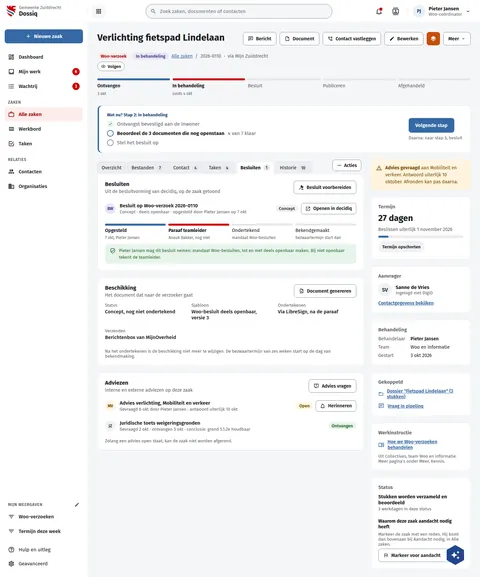
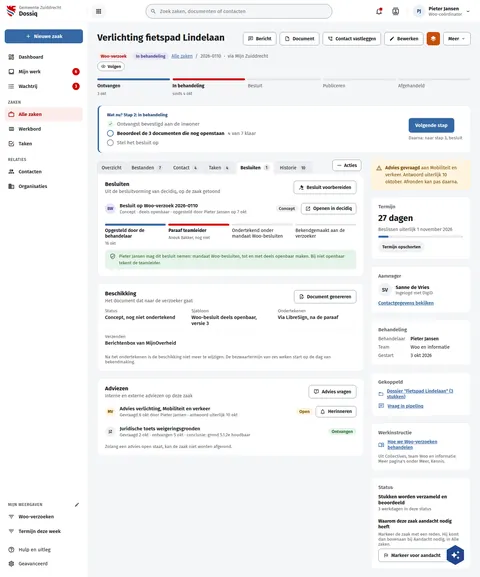
fix(screens): DqZaakBesluiten's decision route reads the stages decidiq has
The route's stage names are example content, so they follow the data
(data is the truth): 'Opgesteld door de behandelaar' (16 okt), 'Paraaf
teamleider' (Anouk Bakker, nog niet), 'Ondertekend onder mandaat
Woo-besluiten' and 'Bekendgemaakt aan de verzoeker', without the lines
the stages do not carry. Live wraps the longer names to two lines, 66px
a step; the board drew one-word names at 49.

Assisted-by: ClaudeCode:claude-opus-5-5

Changed region(s): [[0.2188, 0.3744, 0.7188, 0.7799], [0.625, 0.6551, 0.75, 0.7799], [0.5625, 0.4991, 0.75, 0.5615]]

diff --git a/preview/screens/boards/DqZaakBesluiten.html b/preview/screens/boards/DqZaakBesluiten.html
@@ -227,7 +227,7 @@ a{color:var(--sc-primary, #3669a5)}a:hover{color:var(--sc-primary-deep, #234a78)
               </div>
               <button type="button" aria-haspopup="menu" style="flex: none; align-self: flex-start; margin: 0 8px 8px 0; display: inline-flex; align-items: center; gap: 6px; min-height: 34px; padding: 0 12px; border: 1px solid var(--sc-work-field, #828a95); border-radius: 8px; background: #ffffff; font: 600 14px var(--sc-font, 'Fira Sans'), sans-serif; color: var(--sc-work-ink, #1b1c1d)"><svg width="16" height="16" viewbox="0 0 24 24" fill="currentColor"><path d="M16,12A2,2 0 0,1 18,10A2,2 0 0,1 20,12A2,2 0 0,1 18,14A2,2 0 0,1 16,12M10,12A2,2 0 0,1 12,10A2,2 0 0,1 14,12A2,2 0 0,1 12,14A2,2 0 0,1 10,12M4,12A2,2 0 0,1 6,10A2,2 0 0,1 8,12A2,2 0 0,1 6,14A2,2 0 0,1 4,12Z"></path></svg>Acties</button>
             </div>
-            <section aria-label="Besluiten" style="background: #ffffff; border: 1px solid var(--sc-work-line, #e4e6ea); border-radius: 0 12px 12px 12px; padding: 20px 22px; display: flex; flex-direction: column; gap: 12px"><div style="display: flex; flex-wrap: wrap; justify-content: space-between; align-items: flex-start; gap: 10px 16px"><div style="flex: 1 1 260px; min-width: 0; display: flex; flex-direction: column; gap: 3px"><h2 style="margin: 0; font-size: 17px; font-weight: 700">Besluiten</h2><span style="font-size: 14px; color: var(--sc-work-muted, #5e6168)">Uit de besluitvorming van decidiq, op de zaak getoond</span></div><div style="flex: none; display: flex; flex-wrap: wrap; gap: 8px"><button type="button" style="display: inline-flex; align-items: center; gap: 8px; height: 40px; padding: 0 14px; border-radius: 8px; font: 600 14px var(--sc-font, 'Fira Sans'), sans-serif; white-space: nowrap; border: 1px solid var(--sc-work-field, #828a95); background: #ffffff; color: var(--sc-work-ink, #1b1c1d)"><svg width="16" height="16" viewbox="0 0 24 24" fill="currentColor" aria-hidden="true"><path d="M2.3,20.28L11.9,10.68L10.5,9.26L9.78,9.97C9.39,10.36 8.76,10.36 8.37,9.97L7.66,9.26C7.27,8.87 7.27,8.24 7.66,7.85L13.32,2.19C13.71,1.8 14.34,1.8 14.73,2.19L15.44,2.9C15.83,3.29 15.83,3.92 15.44,4.31L14.73,5L16.15,6.43C16.54,6.04 17.17,6.04 17.56,6.43C17.95,6.82 17.95,7.46 17.56,7.85L18.97,9.26L19.68,8.55C20.07,8.16 20.71,8.16 21.1,8.55L21.8,9.26C22.19,9.65 22.19,10.29 21.8,10.68L16.15,16.33C15.76,16.72 15.12,16.72 14.73,16.33L14.03,15.63C13.63,15.24 13.63,14.6 14.03,14.21L14.73,13.5L13.32,12.09L3.71,21.7C3.32,22.09 2.69,22.09 2.3,21.7C1.91,21.31 1.91,20.67 2.3,20.28M20,19A2,2 0 0,1 22,21V22H12V21A2,2 0 0,1 14,19H20Z"></path></svg>Besluit voorbereiden</button></div></div><ul style="margin: 0; padding: 0; list-style: none; display: flex; flex-direction: column"><li style="display: flex; flex-wrap: wrap; gap: 8px 16px; align-items: center; padding: 12px 0; border-top: 1px solid var(--sc-work-soft, #eef0f3)"><span style="flex: 1 1 260px; min-width: 0; display: flex; gap: 12px; align-items: center"><span aria-hidden="true" style="width: 32px; height: 32px; flex: none; border-radius: 16px; background: #e8e6f6; color: #4a3f8f; display: inline-flex; align-items: center; justify-content: center; font-size: 12px; font-weight: 700">BW</span><span style="display: flex; flex-direction: column; gap: 2px; min-width: 0"><strong style="font-size: 15px; font-weight: 600">Besluit op Woo-verzoek 2026-0110</strong><span style="font-size: 13px; color: var(--sc-work-muted, #5e6168)">Concept · deels openbaar · opgesteld door Pieter Jansen op 7 okt</span></span></span><span style="flex: none; display: flex; flex-wrap: wrap; gap: 8px; align-items: center"><span style="display: inline-block; padding: 3px 10px; border-radius: 12px; background: var(--sc-work-chip, #f0f1f3); color: var(--sc-work-text, #3d4047); font-size: 13px; font-weight: 600; white-space: nowrap">Concept</span><button type="button" style="display: inline-flex; align-items: center; gap: 8px; height: 34px; padding: 0 12px; border-radius: 8px; font: 600 14px var(--sc-font, 'Fira Sans'), sans-serif; white-space: nowrap; border: 1px solid var(--sc-work-field, #828a95); background: #ffffff; color: var(--sc-work-ink, #1b1c1d)"><svg width="16" height="16" viewbox="0 0 24 24" fill="currentColor" aria-hidden="true"><path d="M14,3V5H17.59L7.76,14.83L9.17,16.24L19,6.41V10H21V3M19,19H5V5H12V3H5C3.89,3 3,3.9 3,5V19A2,2 0 0,0 5,21H19A2,2 0 0,0 21,19V12H19V19Z"></path></svg>Openen in decidiq</button></span></li></ul><ol aria-label="Route van het besluit" style="margin: 4px 0 0; padding: 0; list-style: none; display: grid; grid-template-columns: repeat(auto-fit, minmax(150px, 1fr)); gap: 8px"><li style="display: flex; flex-direction: column; gap: 6px"><span style="height: 6px; border-radius: 3px; background: var(--sc-primary, #3669a5)"></span><span style="font-size: 14px; font-weight: 600">Opgesteld</span><span style="font-size: 12px; color: var(--sc-work-muted, #5e6168)">7 okt, Pieter Jansen</span></li><li style="display: flex; flex-direction: column; gap: 6px"><span style="height: 6px; border-radius: 3px; background: var(--sc-accent, #cc0000)"></span><span style="font-size: 14px; font-weight: 700">Paraaf teamleider</span><span style="font-size: 12px; color: var(--sc-work-muted, #5e6168)">Anouk Bakker, nog niet</span></li><li style="display: flex; flex-direction: column; gap: 6px"><span style="height: 6px; border-radius: 3px; background: var(--sc-work-line, #e4e6ea)"></span><span style="font-size: 14px; font-weight: 400">Ondertekend</span><span style="font-size: 12px; color: var(--sc-work-muted, #5e6168)">mandaat Woo-besluiten</span></li><li style="display: flex; flex-direction: column; gap: 6px"><span style="height: 6px; border-radius: 3px; background: var(--sc-work-line, #e4e6ea)"></span><span style="font-size: 14px; font-weight: 400">Bekendgemaakt</span><span style="font-size: 12px; color: var(--sc-work-muted, #5e6168)">bezwaartermijn start dan</span></li></ol><div style="display: flex; gap: 10px; align-items: flex-start; padding: 10px 14px; border-radius: 10px; background: #e7f3ea; color: #1e6b2a; font-size: 13px; line-height: 1.5"><svg width="18" height="18" viewbox="0 0 24 24" fill="currentColor" aria-hidden="true" style="flex: none; margin-top: 1px"><path d="M21,11C21,16.55 17.16,21.74 12,23C6.84,21.74 3,16.55 3,11V5L12,1L21,5V11M12,21C15.75,20 19,15.54 19,11.22V6.3L12,3.18L5,6.3V11.22C5,15.54 8.25,20 12,21M10,17L6,13L7.41,11.59L10,14.17L16.59,7.58L18,9"></path></svg><span>Pieter Jansen mag dit besluit nemen: mandaat Woo-besluiten, tot en met deels openbaar maken. Bij niet openbaar tekent de teamleider.</span></div></section>
+            <section aria-label="Besluiten" style="background: #ffffff; border: 1px solid var(--sc-work-line, #e4e6ea); border-radius: 0 12px 12px 12px; padding: 20px 22px; display: flex; flex-direction: column; gap: 12px"><div style="display: flex; flex-wrap: wrap; justify-content: space-between; align-items: flex-start; gap: 10px 16px"><div style="flex: 1 1 260px; min-width: 0; display: flex; flex-direction: column; gap: 3px"><h2 style="margin: 0; font-size: 17px; font-weight: 700">Besluiten</h2><span style="font-size: 14px; color: var(--sc-work-muted, #5e6168)">Uit de besluitvorming van decidiq, op de zaak getoond</span></div><div style="flex: none; display: flex; flex-wrap: wrap; gap: 8px"><button type="button" style="display: inline-flex; align-items: center; gap: 8px; height: 40px; padding: 0 14px; border-radius: 8px; font: 600 14px var(--sc-font, 'Fira Sans'), sans-serif; white-space: nowrap; border: 1px solid var(--sc-work-field, #828a95); background: #ffffff; color: var(--sc-work-ink, #1b1c1d)"><svg width="16" height="16" viewbox="0 0 24 24" fill="currentColor" aria-hidden="true"><path d="M2.3,20.28L11.9,10.68L10.5,9.26L9.78,9.97C9.39,10.36 8.76,10.36 8.37,9.97L7.66,9.26C7.27,8.87 7.27,8.24 7.66,7.85L13.32,2.19C13.71,1.8 14.34,1.8 14.73,2.19L15.44,2.9C15.83,3.29 15.83,3.92 15.44,4.31L14.73,5L16.15,6.43C16.54,6.04 17.17,6.04 17.56,6.43C17.95,6.82 17.95,7.46 17.56,7.85L18.97,9.26L19.68,8.55C20.07,8.16 20.71,8.16 21.1,8.55L21.8,9.26C22.19,9.65 22.19,10.29 21.8,10.68L16.15,16.33C15.76,16.72 15.12,16.72 14.73,16.33L14.03,15.63C13.63,15.24 13.63,14.6 14.03,14.21L14.73,13.5L13.32,12.09L3.71,21.7C3.32,22.09 2.69,22.09 2.3,21.7C1.91,21.31 1.91,20.67 2.3,20.28M20,19A2,2 0 0,1 22,21V22H12V21A2,2 0 0,1 14,19H20Z"></path></svg>Besluit voorbereiden</button></div></div><ul style="margin: 0; padding: 0; list-style: none; display: flex; flex-direction: column"><li style="display: flex; flex-wrap: wrap; gap: 8px 16px; align-items: center; padding: 12px 0; border-top: 1px solid var(--sc-work-soft, #eef0f3)"><span style="flex: 1 1 260px; min-width: 0; display: flex; gap: 12px; align-items: center"><span aria-hidden="true" style="width: 32px; height: 32px; flex: none; border-radius: 16px; background: #e8e6f6; color: #4a3f8f; display: inline-flex; align-items: center; justify-content: center; font-size: 12px; font-weight: 700">BW</span><span style="display: flex; flex-direction: column; gap: 2px; min-width: 0"><strong style="font-size: 15px; font-weight: 600">Besluit op Woo-verzoek 2026-0110</strong><span style="font-size: 13px; color: var(--sc-work-muted, #5e6168)">Concept · deels openbaar · opgesteld door Pieter Jansen op 7 okt</span></span></span><span style="flex: none; display: flex; flex-wrap: wrap; gap: 8px; align-items: center"><span style="display: inline-block; padding: 3px 10px; border-radius: 12px; background: var(--sc-work-chip, #f0f1f3); color: var(--sc-work-text, #3d4047); font-size: 13px; font-weight: 600; white-space: nowrap">Concept</span><button type="button" style="display: inline-flex; align-items: center; gap: 8px; height: 34px; padding: 0 12px; border-radius: 8px; font: 600 14px var(--sc-font, 'Fira Sans'), sans-serif; white-space: nowrap; border: 1px solid var(--sc-work-field, #828a95); background: #ffffff; color: var(--sc-work-ink, #1b1c1d)"><svg width="16" height="16" viewbox="0 0 24 24" fill="currentColor" aria-hidden="true"><path d="M14,3V5H17.59L7.76,14.83L9.17,16.24L19,6.41V10H21V3M19,19H5V5H12V3H5C3.89,3 3,3.9 3,5V19A2,2 0 0,0 5,21H19A2,2 0 0,0 21,19V12H19V19Z"></path></svg>Openen in decidiq</button></span></li></ul><ol aria-label="Route van het besluit" style="margin: 4px 0 0; padding: 0; list-style: none; display: grid; grid-template-columns: repeat(auto-fit, minmax(150px, 1fr)); gap: 8px"><li style="display: flex; flex-direction: column; gap: 6px"><span style="height: 6px; border-radius: 3px; background: var(--sc-primary, #3669a5)"></span><span style="font-size: 14px; font-weight: 600">Opgesteld door de behandelaar</span><span style="font-size: 12px; color: var(--sc-work-muted, #5e6168)">16 okt</span></li><li style="display: flex; flex-direction: column; gap: 6px"><span style="height: 6px; border-radius: 3px; background: var(--sc-accent, #cc0000)"></span><span style="font-size: 14px; font-weight: 700">Paraaf teamleider</span><span style="font-size: 12px; color: var(--sc-work-muted, #5e6168)">Anouk Bakker, nog niet</span></li><li style="display: flex; flex-direction: column; gap: 6px"><span style="height: 6px; border-radius: 3px; background: var(--sc-work-line, #e4e6ea)"></span><span style="font-size: 14px; font-weight: 400">Ondertekend onder mandaat Woo-besluiten</span></li><li style="display: flex; flex-direction: column; gap: 6px"><span style="height: 6px; border-radius: 3px; background: var(--sc-work-line, #e4e6ea)"></span><span style="font-size: 14px; font-weight: 400">Bekendgemaakt aan de verzoeker</span></li></ol><div style="display: flex; gap: 10px; align-items: flex-start; padding: 10px 14px; border-radius: 10px; background: #e7f3ea; color: #1e6b2a; font-size: 13px; line-height: 1.5"><svg width="18" height="18" viewbox="0 0 24 24" fill="currentColor" aria-hidden="true" style="flex: none; margin-top: 1px"><path d="M21,11C21,16.55 17.16,21.74 12,23C6.84,21.74 3,16.55 3,11V5L12,1L21,5V11M12,21C15.75,20 19,15.54 19,11.22V6.3L12,3.18L5,6.3V11.22C5,15.54 8.25,20 12,21M10,17L6,13L7.41,11.59L10,14.17L16.59,7.58L18,9"></path></svg><span>Pieter Jansen mag dit besluit nemen: mandaat Woo-besluiten, tot en met deels openbaar maken. Bij niet openbaar tekent de teamleider.</span></div></section>
             <section style="background: #ffffff; border: 1px solid var(--sc-work-line, #e4e6ea); border-radius: 12px; padding: 20px 22px; display: flex; flex-direction: column; gap: 14px"><div style="display: flex; flex-wrap: wrap; justify-content: space-between; align-items: flex-start; gap: 10px 16px"><div style="flex: 1 1 260px; min-width: 0; display: flex; flex-direction: column; gap: 3px"><h2 style="margin: 0; font-size: 17px; font-weight: 700">Beschikking</h2><span style="font-size: 14px; color: var(--sc-work-muted, #5e6168)">Het document dat naar de verzoeker gaat</span></div><div style="flex: none; display: flex; flex-wrap: wrap; gap: 8px"><button type="button" style="display: inline-flex; align-items: center; gap: 8px; height: 40px; padding: 0 14px; border-radius: 8px; font: 600 14px var(--sc-font, 'Fira Sans'), sans-serif; white-space: nowrap; border: 1px solid var(--sc-work-field, #828a95); background: #ffffff; color: var(--sc-work-ink, #1b1c1d)"><svg width="16" height="16" viewbox="0 0 24 24" fill="currentColor" aria-hidden="true"><path d="M8,12H16V14H8V12M10,20H6V4H13V9H18V12.1L20,10.1V8L14,2H6A2,2 0 0,0 4,4V20A2,2 0 0,0 6,22H10V20M8,18H12.1L13,17.1V16H8V18M20.2,13C20.3,13 20.5,13.1 20.6,13.2L21.9,14.5C22.1,14.7 22.1,15.1 21.9,15.3L20.9,16.3L18.8,14.2L19.8,13.2C19.9,13.1 20,13 20.2,13M20.2,16.9L14.1,23H12V20.9L18.1,14.8L20.2,16.9Z"></path></svg>Document genereren</button></div></div><dl style="margin: 0; display: grid; grid-template-columns: repeat(auto-fit, minmax(200px, 1fr)); gap: 12px 24px; font-size: 15px"><div style="display: flex; flex-direction: column; gap: 3px; padding-bottom: 10px; border-bottom: 1px solid var(--sc-work-soft, #eef0f3)"><dt style="font-size: 13px; color: var(--sc-work-muted, #5e6168)">Status</dt><dd style="margin: 0; font-weight: 500">Concept, nog niet ondertekend</dd></div><div style="display: flex; flex-direction: column; gap: 3px; padding-bottom: 10px; border-bottom: 1px solid var(--sc-work-soft, #eef0f3)"><dt style="font-size: 13px; color: var(--sc-work-muted, #5e6168)">Sjabloon</dt><dd style="margin: 0; font-weight: 500">Woo-besluit deels openbaar, versie 3</dd></div><div style="display: flex; flex-direction: column; gap: 3px; padding-bottom: 10px; border-bottom: 1px solid var(--sc-work-soft, #eef0f3)"><dt style="font-size: 13px; color: var(--sc-work-muted, #5e6168)">Ondertekenen</dt><dd style="margin: 0; font-weight: 500">Via LibreSign, na de paraaf</dd></div><div style="display: flex; flex-direction: column; gap: 3px; padding-bottom: 10px; border-bottom: 1px solid var(--sc-work-soft, #eef0f3)"><dt style="font-size: 13px; color: var(--sc-work-muted, #5e6168)">Verzenden</dt><dd style="margin: 0; font-weight: 500">Berichtenbox van MijnOverheid</dd></div></dl><span style="font-size: 13px; color: var(--sc-work-muted, #5e6168)">Na het ondertekenen is de beschikking niet meer te wijzigen. De bezwaartermijn van zes weken start op de dag van bekendmaking.</span></section>
             <section style="background: #ffffff; border: 1px solid var(--sc-work-line, #e4e6ea); border-radius: 12px; padding: 20px 22px; display: flex; flex-direction: column; gap: 8px"><div style="display: flex; flex-wrap: wrap; justify-content: space-between; align-items: flex-start; gap: 10px 16px"><div style="flex: 1 1 260px; min-width: 0; display: flex; flex-direction: column; gap: 3px"><h2 style="margin: 0; font-size: 17px; font-weight: 700">Adviezen</h2><span style="font-size: 14px; color: var(--sc-work-muted, #5e6168)">Interne en externe adviezen op deze zaak</span></div><div style="flex: none; display: flex; flex-wrap: wrap; gap: 8px"><button type="button" style="display: inline-flex; align-items: center; gap: 8px; height: 40px; padding: 0 14px; border-radius: 8px; font: 600 14px var(--sc-font, 'Fira Sans'), sans-serif; white-space: nowrap; border: 1px solid var(--sc-work-field, #828a95); background: #ffffff; color: var(--sc-work-ink, #1b1c1d)"><svg width="16" height="16" viewbox="0 0 24 24" fill="currentColor" aria-hidden="true"><path d="M4,2A2,2 0 0,0 2,4V16A2,2 0 0,0 4,18H8V21A1,1 0 0,0 9,22H9.5V22C9.75,22 10,21.9 10.2,21.71L13.9,18H20A2,2 0 0,0 22,16V4C22,2.89 21.1,2 20,2H4M4,4H20V16H13.08L10,19.08V16H4V4M12.19,5.5C11.3,5.5 10.59,5.68 10.05,6.04C9.5,6.4 9.22,7 9.27,7.69C0.21,7.69 6.57,7.69 11.24,7.69C11.24,7.41 11.34,7.2 11.5,7.06C11.7,6.92 11.92,6.85 12.19,6.85C12.5,6.85 12.77,6.93 12.95,7.11C13.13,7.28 13.22,7.5 13.22,7.8C13.22,8.08 13.14,8.33 13,8.54C12.83,8.76 12.62,8.94 12.36,9.08C11.84,9.4 11.5,9.68 11.29,9.92C11.1,10.16 11,10.5 11,11H13C13,10.72 13.05,10.5 13.14,10.32C13.23,10.15 13.4,10 13.66,9.85C14.12,9.64 14.5,9.36 14.79,9C15.08,8.63 15.23,8.24 15.23,7.8C15.23,7.1 14.96,6.54 14.42,6.12C13.88,5.71 13.13,5.5 12.19,5.5M11,12V14H13V12H11Z"></path></svg>Advies vragen</button></div></div><ul style="margin: 0; padding: 0; list-style: none; display: flex; flex-direction: column"><li style="display: flex; flex-wrap: wrap; gap: 8px 16px; align-items: center; padding: 12px 0; border-top: 1px solid var(--sc-work-soft, #eef0f3)"><span style="flex: 1 1 260px; min-width: 0; display: flex; gap: 12px; align-items: center"><span aria-hidden="true" style="width: 32px; height: 32px; flex: none; border-radius: 16px; background: #fff4de; color: #7a4f00; display: inline-flex; align-items: center; justify-content: center; font-size: 12px; font-weight: 700">MV</span><span style="display: flex; flex-direction: column; gap: 2px; min-width: 0"><strong style="font-size: 15px; font-weight: 600">Advies verlichting, Mobiliteit en verkeer</strong><span style="font-size: 13px; color: var(--sc-work-muted, #5e6168)">Gevraagd 6 okt door Pieter Jansen · antwoord uiterlijk 10 okt</span></span></span><span style="flex: none; display: flex; flex-wrap: wrap; gap: 8px; align-items: center"><span style="display: inline-block; padding: 3px 10px; border-radius: 12px; background: #fff4de; color: #7a4f00; font-size: 13px; font-weight: 600; white-space: nowrap">Open</span><button type="button" style="display: inline-flex; align-items: center; gap: 8px; height: 34px; padding: 0 12px; border-radius: 8px; font: 600 14px var(--sc-font, 'Fira Sans'), sans-serif; white-space: nowrap; border: 1px solid var(--sc-work-field, #828a95); background: #ffffff; color: var(--sc-work-ink, #1b1c1d)"><svg width="16" height="16" viewbox="0 0 24 24" fill="currentColor" aria-hidden="true"><path d="M10 21H14C14 22.1 13.1 23 12 23S10 22.1 10 21M21 19V20H3V19L5 17V11C5 7.9 7 5.2 10 4.3V4C10 2.9 10.9 2 12 2S14 2.9 14 4V4.3C17 5.2 19 7.9 19 11V17L21 19M17 11C17 8.2 14.8 6 12 6S7 8.2 7 11V18H17V11Z"></path></svg>Herinneren</button></span></li><li style="display: flex; flex-wrap: wrap; gap: 8px 16px; align-items: center; padding: 12px 0; border-top: 1px solid var(--sc-work-soft, #eef0f3)"><span style="flex: 1 1 260px; min-width: 0; display: flex; gap: 12px; align-items: center"><span aria-hidden="true" style="width: 32px; height: 32px; flex: none; border-radius: 16px; background: var(--sc-work-chip, #f0f1f3); color: var(--sc-work-text, #3d4047); display: inline-flex; align-items: center; justify-content: center; font-size: 12px; font-weight: 700">JZ</span><span style="display: flex; flex-direction: column; gap: 2px; min-width: 0"><strong style="font-size: 15px; font-weight: 600">Juridische toets weigeringsgronden</strong><span style="font-size: 13px; color: var(--sc-work-muted, #5e6168)">Gevraagd 2 okt · ontvangen 5 okt · conclusie: grond 5.1.2e houdbaar</span></span></span><span style="flex: none; display: flex; flex-wrap: wrap; gap: 8px; align-items: center"><span style="display: inline-block; padding: 3px 10px; border-radius: 12px; background: #e7f3ea; color: #1e6b2a; font-size: 13px; font-weight: 600; white-space: nowrap">Ontvangen</span></span></li></ul><span style="font-size: 13px; color: var(--sc-work-muted, #5e6168)">Zolang een advies open staat, kan de zaak niet worden afgerond.</span></section>
           </div>

diff --git a/screens-src/zuiddrecht/DqZaakBesluiten.dc.html b/screens-src/zuiddrecht/DqZaakBesluiten.dc.html
@@ -75,7 +75,7 @@ a{color:#3669a5}a:hover{color:#234a78}
               </div>
               <button type="button" aria-haspopup="menu" style="flex: none; align-self: flex-start; margin: 0 8px 8px 0; display: inline-flex; align-items: center; gap: 6px; min-height: 34px; padding: 0 12px; border: 1px solid #828a95; border-radius: 8px; background: #ffffff; font: 600 14px 'Fira Sans', sans-serif; color: #1b1c1d"><svg width="16" height="16" viewBox="0 0 24 24" fill="currentColor"><path d="M16,12A2,2 0 0,1 18,10A2,2 0 0,1 20,12A2,2 0 0,1 18,14A2,2 0 0,1 16,12M10,12A2,2 0 0,1 12,10A2,2 0 0,1 14,12A2,2 0 0,1 12,14A2,2 0 0,1 10,12M4,12A2,2 0 0,1 6,10A2,2 0 0,1 8,12A2,2 0 0,1 6,14A2,2 0 0,1 4,12Z"></path></svg>Acties</button>
             </div>
-            <section aria-label="Besluiten" style="background: #ffffff; border: 1px solid #e4e6ea; border-radius: 0 12px 12px 12px; padding: 20px 22px; display: flex; flex-direction: column; gap: 12px"><div style="display: flex; flex-wrap: wrap; justify-content: space-between; align-items: flex-start; gap: 10px 16px"><div style="flex: 1 1 260px; min-width: 0; display: flex; flex-direction: column; gap: 3px"><h2 style="margin: 0; font-size: 17px; font-weight: 700">Besluiten</h2><span style="font-size: 14px; color: #5e6168">Uit de besluitvorming van decidiq, op de zaak getoond</span></div><div style="flex: none; display: flex; flex-wrap: wrap; gap: 8px"><button type="button" style="display: inline-flex; align-items: center; gap: 8px; height: 40px; padding: 0 14px; border-radius: 8px; font: 600 14px 'Fira Sans', sans-serif; white-space: nowrap; border: 1px solid #828a95; background: #ffffff; color: #1b1c1d"><svg width="16" height="16" viewBox="0 0 24 24" fill="currentColor" aria-hidden="true"><path d="M2.3,20.28L11.9,10.68L10.5,9.26L9.78,9.97C9.39,10.36 8.76,10.36 8.37,9.97L7.66,9.26C7.27,8.87 7.27,8.24 7.66,7.85L13.32,2.19C13.71,1.8 14.34,1.8 14.73,2.19L15.44,2.9C15.83,3.29 15.83,3.92 15.44,4.31L14.73,5L16.15,6.43C16.54,6.04 17.17,6.04 17.56,6.43C17.95,6.82 17.95,7.46 17.56,7.85L18.97,9.26L19.68,8.55C20.07,8.16 20.71,8.16 21.1,8.55L21.8,9.26C22.19,9.65 22.19,10.29 21.8,10.68L16.15,16.33C15.76,16.72 15.12,16.72 14.73,16.33L14.03,15.63C13.63,15.24 13.63,14.6 14.03,14.21L14.73,13.5L13.32,12.09L3.71,21.7C3.32,22.09 2.69,22.09 2.3,21.7C1.91,21.31 1.91,20.67 2.3,20.28M20,19A2,2 0 0,1 22,21V22H12V21A2,2 0 0,1 14,19H20Z"></path></svg>Besluit voorbereiden</button></div></div><ul style="margin: 0; padding: 0; list-style: none; display: flex; flex-direction: column"><li style="display: flex; flex-wrap: wrap; gap: 8px 16px; align-items: center; padding: 12px 0; border-top: 1px solid #eef0f3"><span style="flex: 1 1 260px; min-width: 0; display: flex; gap: 12px; align-items: center"><span aria-hidden="true" style="width: 32px; height: 32px; flex: none; border-radius: 16px; background: #e8e6f6; color: #4a3f8f; display: inline-flex; align-items: center; justify-content: center; font-size: 12px; font-weight: 700">BW</span><span style="display: flex; flex-direction: column; gap: 2px; min-width: 0"><strong style="font-size: 15px; font-weight: 600">Besluit op Woo-verzoek 2026-0110</strong><span style="font-size: 13px; color: #5e6168">Concept · deels openbaar · opgesteld door Pieter Jansen op 7 okt</span></span></span><span style="flex: none; display: flex; flex-wrap: wrap; gap: 8px; align-items: center"><span style="display: inline-block; padding: 3px 10px; border-radius: 12px; background: #f0f1f3; color: #3d4047; font-size: 13px; font-weight: 600; white-space: nowrap">Concept</span><button type="button" style="display: inline-flex; align-items: center; gap: 8px; height: 34px; padding: 0 12px; border-radius: 8px; font: 600 14px 'Fira Sans', sans-serif; white-space: nowrap; border: 1px solid #828a95; background: #ffffff; color: #1b1c1d"><svg width="16" height="16" viewBox="0 0 24 24" fill="currentColor" aria-hidden="true"><path d="M14,3V5H17.59L7.76,14.83L9.17,16.24L19,6.41V10H21V3M19,19H5V5H12V3H5C3.89,3 3,3.9 3,5V19A2,2 0 0,0 5,21H19A2,2 0 0,0 21,19V12H19V19Z"></path></svg>Openen in decidiq</button></span></li></ul><ol aria-label="Route van het besluit" style="margin: 4px 0 0; padding: 0; list-style: none; display: grid; grid-template-columns: repeat(auto-fit, minmax(150px, 1fr)); gap: 8px"><li style="display: flex; flex-direction: column; gap: 6px"><span style="height: 6px; border-radius: 3px; background: #3669a5"></span><span style="font-size: 14px; font-weight: 600">Opgesteld</span><span style="font-size: 12px; color: #5e6168">7 okt, Pieter Jansen</span></li><li style="display: flex; flex-direction: column; gap: 6px"><span style="height: 6px; border-radius: 3px; background: #cc0000"></span><span style="font-size: 14px; font-weight: 700">Paraaf teamleider</span><span style="font-size: 12px; color: #5e6168">Anouk Bakker, nog niet</span></li><li style="display: flex; flex-direction: column; gap: 6px"><span style="height: 6px; border-radius: 3px; background: #e4e6ea"></span><span style="font-size: 14px; font-weight: 400">Ondertekend</span><span style="font-size: 12px; color: #5e6168">mandaat Woo-besluiten</span></li><li style="display: flex; flex-direction: column; gap: 6px"><span style="height: 6px; border-radius: 3px; background: #e4e6ea"></span><span style="font-size: 14px; font-weight: 400">Bekendgemaakt</span><span style="font-size: 12px; color: #5e6168">bezwaartermijn start dan</span></li></ol><div style="display: flex; gap: 10px; align-items: flex-start; padding: 10px 14px; border-radius: 10px; background: #e7f3ea; color: #1e6b2a; font-size: 13px; line-height: 1.5"><svg width="18" height="18" viewBox="0 0 24 24" fill="currentColor" aria-hidden="true" style="flex: none; margin-top: 1px"><path d="M21,11C21,16.55 17.16,21.74 12,23C6.84,21.74 3,16.55 3,11V5L12,1L21,5V11M12,21C15.75,20 19,15.54 19,11.22V6.3L12,3.18L5,6.3V11.22C5,15.54 8.25,20 12,21M10,17L6,13L7.41,11.59L10,14.17L16.59,7.58L18,9"></path></svg><span>Pieter Jansen mag dit besluit nemen: mandaat Woo-besluiten, tot en met deels openbaar maken. Bij niet openbaar tekent de teamleider.</span></div></section>
+            <section aria-label="Besluiten" style="background: #ffffff; border: 1px solid #e4e6ea; border-radius: 0 12px 12px 12px; padding: 20px 22px; display: flex; flex-direction: column; gap: 12px"><div style="display: flex; flex-wrap: wrap; justify-content: space-between; align-items: flex-start; gap: 10px 16px"><div style="flex: 1 1 260px; min-width: 0; display: flex; flex-direction: column; gap: 3px"><h2 style="margin: 0; font-size: 17px; font-weight: 700">Besluiten</h2><span style="font-size: 14px; color: #5e6168">Uit de besluitvorming van decidiq, op de zaak getoond</span></div><div style="flex: none; display: flex; flex-wrap: wrap; gap: 8px"><button type="button" style="display: inline-flex; align-items: center; gap: 8px; height: 40px; padding: 0 14px; border-radius: 8px; font: 600 14px 'Fira Sans', sans-serif; white-space: nowrap; border: 1px solid #828a95; background: #ffffff; color: #1b1c1d"><svg width="16" height="16" viewBox="0 0 24 24" fill="currentColor" aria-hidden="true"><path d="M2.3,20.28L11.9,10.68L10.5,9.26L9.78,9.97C9.39,10.36 8.76,10.36 8.37,9.97L7.66,9.26C7.27,8.87 7.27,8.24 7.66,7.85L13.32,2.19C13.71,1.8 14.34,1.8 14.73,2.19L15.44,2.9C15.83,3.29 15.83,3.92 15.44,4.31L14.73,5L16.15,6.43C16.54,6.04 17.17,6.04 17.56,6.43C17.95,6.82 17.95,7.46 17.56,7.85L18.97,9.26L19.68,8.55C20.07,8.16 20.71,8.16 21.1,8.55L21.8,9.26C22.19,9.65 22.19,10.29 21.8,10.68L16.15,16.33C15.76,16.72 15.12,16.72 14.73,16.33L14.03,15.63C13.63,15.24 13.63,14.6 14.03,14.21L14.73,13.5L13.32,12.09L3.71,21.7C3.32,22.09 2.69,22.09 2.3,21.7C1.91,21.31 1.91,20.67 2.3,20.28M20,19A2,2 0 0,1 22,21V22H12V21A2,2 0 0,1 14,19H20Z"></path></svg>Besluit voorbereiden</button></div></div><ul style="margin: 0; padding: 0; list-style: none; display: flex; flex-direction: column"><li style="display: flex; flex-wrap: wrap; gap: 8px 16px; align-items: center; padding: 12px 0; border-top: 1px solid #eef0f3"><span style="flex: 1 1 260px; min-width: 0; display: flex; gap: 12px; align-items: center"><span aria-hidden="true" style="width: 32px; height: 32px; flex: none; border-radius: 16px; background: #e8e6f6; color: #4a3f8f; display: inline-flex; align-items: center; justify-content: center; font-size: 12px; font-weight: 700">BW</span><span style="display: flex; flex-direction: column; gap: 2px; min-width: 0"><strong style="font-size: 15px; font-weight: 600">Besluit op Woo-verzoek 2026-0110</strong><span style="font-size: 13px; color: #5e6168">Concept · deels openbaar · opgesteld door Pieter Jansen op 7 okt</span></span></span><span style="flex: none; display: flex; flex-wrap: wrap; gap: 8px; align-items: center"><span style="display: inline-block; padding: 3px 10px; border-radius: 12px; background: #f0f1f3; color: #3d4047; font-size: 13px; font-weight: 600; white-space: nowrap">Concept</span><button type="button" style="display: inline-flex; align-items: center; gap: 8px; height: 34px; padding: 0 12px; border-radius: 8px; font: 600 14px 'Fira Sans', sans-serif; white-space: nowrap; border: 1px solid #828a95; background: #ffffff; color: #1b1c1d"><svg width="16" height="16" viewBox="0 0 24 24" fill="currentColor" aria-hidden="true"><path d="M14,3V5H17.59L7.76,14.83L9.17,16.24L19,6.41V10H21V3M19,19H5V5H12V3H5C3.89,3 3,3.9 3,5V19A2,2 0 0,0 5,21H19A2,2 0 0,0 21,19V12H19V19Z"></path></svg>Openen in decidiq</button></span></li></ul><ol aria-label="Route van het besluit" style="margin: 4px 0 0; padding: 0; list-style: none; display: grid; grid-template-columns: repeat(auto-fit, minmax(150px, 1fr)); gap: 8px"><li style="display: flex; flex-direction: column; gap: 6px"><span style="height: 6px; border-radius: 3px; background: #3669a5"></span><span style="font-size: 14px; font-weight: 600">Opgesteld door de behandelaar</span><span style="font-size: 12px; color: #5e6168">16 okt</span></li><li style="display: flex; flex-direction: column; gap: 6px"><span style="height: 6px; border-radius: 3px; background: #cc0000"></span><span style="font-size: 14px; font-weight: 700">Paraaf teamleider</span><span style="font-size: 12px; color: #5e6168">Anouk Bakker, nog niet</span></li><li style="display: flex; flex-direction: column; gap: 6px"><span style="height: 6px; border-radius: 3px; background: #e4e6ea"></span><span style="font-size: 14px; font-weight: 400">Ondertekend onder mandaat Woo-besluiten</span></li><li style="display: flex; flex-direction: column; gap: 6px"><span style="height: 6px; border-radius: 3px; background: #e4e6ea"></span><span style="font-size: 14px; font-weight: 400">Bekendgemaakt aan de verzoeker</span></li></ol><div style="display: flex; gap: 10px; align-items: flex-start; padding: 10px 14px; border-radius: 10px; background: #e7f3ea; color: #1e6b2a; font-size: 13px; line-height: 1.5"><svg width="18" height="18" viewBox="0 0 24 24" fill="currentColor" aria-hidden="true" style="flex: none; margin-top: 1px"><path d="M21,11C21,16.55 17.16,21.74 12,23C6.84,21.74 3,16.55 3,11V5L12,1L21,5V11M12,21C15.75,20 19,15.54 19,11.22V6.3L12,3.18L5,6.3V11.22C5,15.54 8.25,20 12,21M10,17L6,13L7.41,11.59L10,14.17L16.59,7.58L18,9"></path></svg><span>Pieter Jansen mag dit besluit nemen: mandaat Woo-besluiten, tot en met deels openbaar maken. Bij niet openbaar tekent de teamleider.</span></div></section>
             <section style="background: #ffffff; border: 1px solid #e4e6ea; border-radius: 12px; padding: 20px 22px; display: flex; flex-direction: column; gap: 14px"><div style="display: flex; flex-wrap: wrap; justify-content: space-between; align-items: flex-start; gap: 10px 16px"><div style="flex: 1 1 260px; min-width: 0; display: flex; flex-direction: column; gap: 3px"><h2 style="margin: 0; font-size: 17px; font-weight: 700">Beschikking</h2><span style="font-size: 14px; color: #5e6168">Het document dat naar de verzoeker gaat</span></div><div style="flex: none; display: flex; flex-wrap: wrap; gap: 8px"><button type="button" style="display: inline-flex; align-items: center; gap: 8px; height: 40px; padding: 0 14px; border-radius: 8px; font: 600 14px 'Fira Sans', sans-serif; white-space: nowrap; border: 1px solid #828a95; background: #ffffff; color: #1b1c1d"><svg width="16" height="16" viewBox="0 0 24 24" fill="currentColor" aria-hidden="true"><path d="M8,12H16V14H8V12M10,20H6V4H13V9H18V12.1L20,10.1V8L14,2H6A2,2 0 0,0 4,4V20A2,2 0 0,0 6,22H10V20M8,18H12.1L13,17.1V16H8V18M20.2,13C20.3,13 20.5,13.1 20.6,13.2L21.9,14.5C22.1,14.7 22.1,15.1 21.9,15.3L20.9,16.3L18.8,14.2L19.8,13.2C19.9,13.1 20,13 20.2,13M20.2,16.9L14.1,23H12V20.9L18.1,14.8L20.2,16.9Z"></path></svg>Document genereren</button></div></div><dl style="margin: 0; display: grid; grid-template-columns: repeat(auto-fit, minmax(200px, 1fr)); gap: 12px 24px; font-size: 15px"><div style="display: flex; flex-direction: column; gap: 3px; padding-bottom: 10px; border-bottom: 1px solid #eef0f3"><dt style="font-size: 13px; color: #5e6168">Status</dt><dd style="margin: 0; font-weight: 500">Concept, nog niet ondertekend</dd></div><div style="display: flex; flex-direction: column; gap: 3px; padding-bottom: 10px; border-bottom: 1px solid #eef0f3"><dt style="font-size: 13px; color: #5e6168">Sjabloon</dt><dd style="margin: 0; font-weight: 500">Woo-besluit deels openbaar, versie 3</dd></div><div style="display: flex; flex-direction: column; gap: 3px; padding-bottom: 10px; border-bottom: 1px solid #eef0f3"><dt style="font-size: 13px; color: #5e6168">Ondertekenen</dt><dd style="margin: 0; font-weight: 500">Via LibreSign, na de paraaf</dd></div><div style="display: flex; flex-direction: column; gap: 3px; padding-bottom: 10px; border-bottom: 1px solid #eef0f3"><dt style="font-size: 13px; color: #5e6168">Verzenden</dt><dd style="margin: 0; font-weight: 500">Berichtenbox van MijnOverheid</dd></div></dl><span style="font-size: 13px; color: #5e6168">Na het ondertekenen is de beschikking niet meer te wijzigen. De bezwaartermijn van zes weken start op de dag van bekendmaking.</span></section>
             <section style="background: #ffffff; border: 1px solid #e4e6ea; border-radius: 12px; padding: 20px 22px; display: flex; flex-direction: column; gap: 8px"><div style="display: flex; flex-wrap: wrap; justify-content: space-between; align-items: flex-start; gap: 10px 16px"><div style="flex: 1 1 260px; min-width: 0; display: flex; flex-direction: column; gap: 3px"><h2 style="margin: 0; font-size: 17px; font-weight: 700">Adviezen</h2><span style="font-size: 14px; color: #5e6168">Interne en externe adviezen op deze zaak</span></div><div style="flex: none; display: flex; flex-wrap: wrap; gap: 8px"><button type="button" style="display: inline-flex; align-items: center; gap: 8px; height: 40px; padding: 0 14px; border-radius: 8px; font: 600 14px 'Fira Sans', sans-serif; white-space: nowrap; border: 1px solid #828a95; background: #ffffff; color: #1b1c1d"><svg width="16" height="16" viewBox="0 0 24 24" fill="currentColor" aria-hidden="true"><path d="M4,2A2,2 0 0,0 2,4V16A2,2 0 0,0 4,18H8V21A1,1 0 0,0 9,22H9.5V22C9.75,22 10,21.9 10.2,21.71L13.9,18H20A2,2 0 0,0 22,16V4C22,2.89 21.1,2 20,2H4M4,4H20V16H13.08L10,19.08V16H4V4M12.19,5.5C11.3,5.5 10.59,5.68 10.05,6.04C9.5,6.4 9.22,7 9.27,7.69C0.21,7.69 6.57,7.69 11.24,7.69C11.24,7.41 11.34,7.2 11.5,7.06C11.7,6.92 11.92,6.85 12.19,6.85C12.5,6.85 12.77,6.93 12.95,7.11C13.13,7.28 13.22,7.5 13.22,7.8C13.22,8.08 13.14,8.33 13,8.54C12.83,8.76 12.62,8.94 12.36,9.08C11.84,9.4 11.5,9.68 11.29,9.92C11.1,10.16 11,10.5 11,11H13C13,10.72 13.05,10.5 13.14,10.32C13.23,10.15 13.4,10 13.66,9.85C14.12,9.64 14.5,9.36 14.79,9C15.08,8.63 15.23,8.24 15.23,7.8C15.23,7.1 14.96,6.54 14.42,6.12C13.88,5.71 13.13,5.5 12.19,5.5M11,12V14H13V12H11Z"></path></svg>Advies vragen</button></div></div><ul style="margin: 0; padding: 0; list-style: none; display: flex; flex-direction: column"><li style="display: flex; flex-wrap: wrap; gap: 8px 16px; align-items: center; padding: 12px 0; border-top: 1px solid #eef0f3"><span style="flex: 1 1 260px; min-width: 0; display: flex; gap: 12px; align-items: center"><span aria-hidden="true" style="width: 32px; height: 32px; flex: none; border-radius: 16px; background: #fff4de; color: #7a4f00; display: inline-flex; align-items: center; justify-content: center; font-size: 12px; font-weight: 700">MV</span><span style="display: flex; flex-direction: column; gap: 2px; min-width: 0"><strong style="font-size: 15px; font-weight: 600">Advies verlichting, Mobiliteit en verkeer</strong><span style="font-size: 13px; color: #5e6168">Gevraagd 6 okt door Pieter Jansen · antwoord uiterlijk 10 okt</span></span></span><span style="flex: none; display: flex; flex-wrap: wrap; gap: 8px; align-items: center"><span style="display: inline-block; padding: 3px 10px; border-radius: 12px; background: #fff4de; color: #7a4f00; font-size: 13px; font-weight: 600; white-space: nowrap">Open</span><button type="button" style="display: inline-flex; align-items: center; gap: 8px; height: 34px; padding: 0 12px; border-radius: 8px; font: 600 14px 'Fira Sans', sans-serif; white-space: nowrap; border: 1px solid #828a95; background: #ffffff; color: #1b1c1d"><svg width="16" height="16" viewBox="0 0 24 24" fill="currentColor" aria-hidden="true"><path d="M10 21H14C14 22.1 13.1 23 12 23S10 22.1 10 21M21 19V20H3V19L5 17V11C5 7.9 7 5.2 10 4.3V4C10 2.9 10.9 2 12 2S14 2.9 14 4V4.3C17 5.2 19 7.9 19 11V17L21 19M17 11C17 8.2 14.8 6 12 6S7 8.2 7 11V18H17V11Z"></path></svg>Herinneren</button></span></li><li style="display: flex; flex-wrap: wrap; gap: 8px 16px; align-items: center; padding: 12px 0; border-top: 1px solid #eef0f3"><span style="flex: 1 1 260px; min-width: 0; display: flex; gap: 12px; align-items: center"><span aria-hidden="true" style="width: 32px; height: 32px; flex: none; border-radius: 16px; background: #f0f1f3; color: #3d4047; display: inline-flex; align-items: center; justify-content: center; font-size: 12px; font-weight: 700">JZ</span><span style="display: flex; flex-direction: column; gap: 2px; min-width: 0"><strong style="font-size: 15px; font-weight: 600">Juridische toets weigeringsgronden</strong><span style="font-size: 13px; color: #5e6168">Gevraagd 2 okt · ontvangen 5 okt · conclusie: grond 5.1.2e houdbaar</span></span></span><span style="flex: none; display: flex; flex-wrap: wrap; gap: 8px; align-items: center"><span style="display: inline-block; padding: 3px 10px; border-radius: 12px; background: #e7f3ea; color: #1e6b2a; font-size: 13px; font-weight: 600; white-space: nowrap">Ontvangen</span></span></li></ul><span style="font-size: 13px; color: #5e6168">Zolang een advies open staat, kan de zaak niet worden afgerond.</span></section>
           </div>
